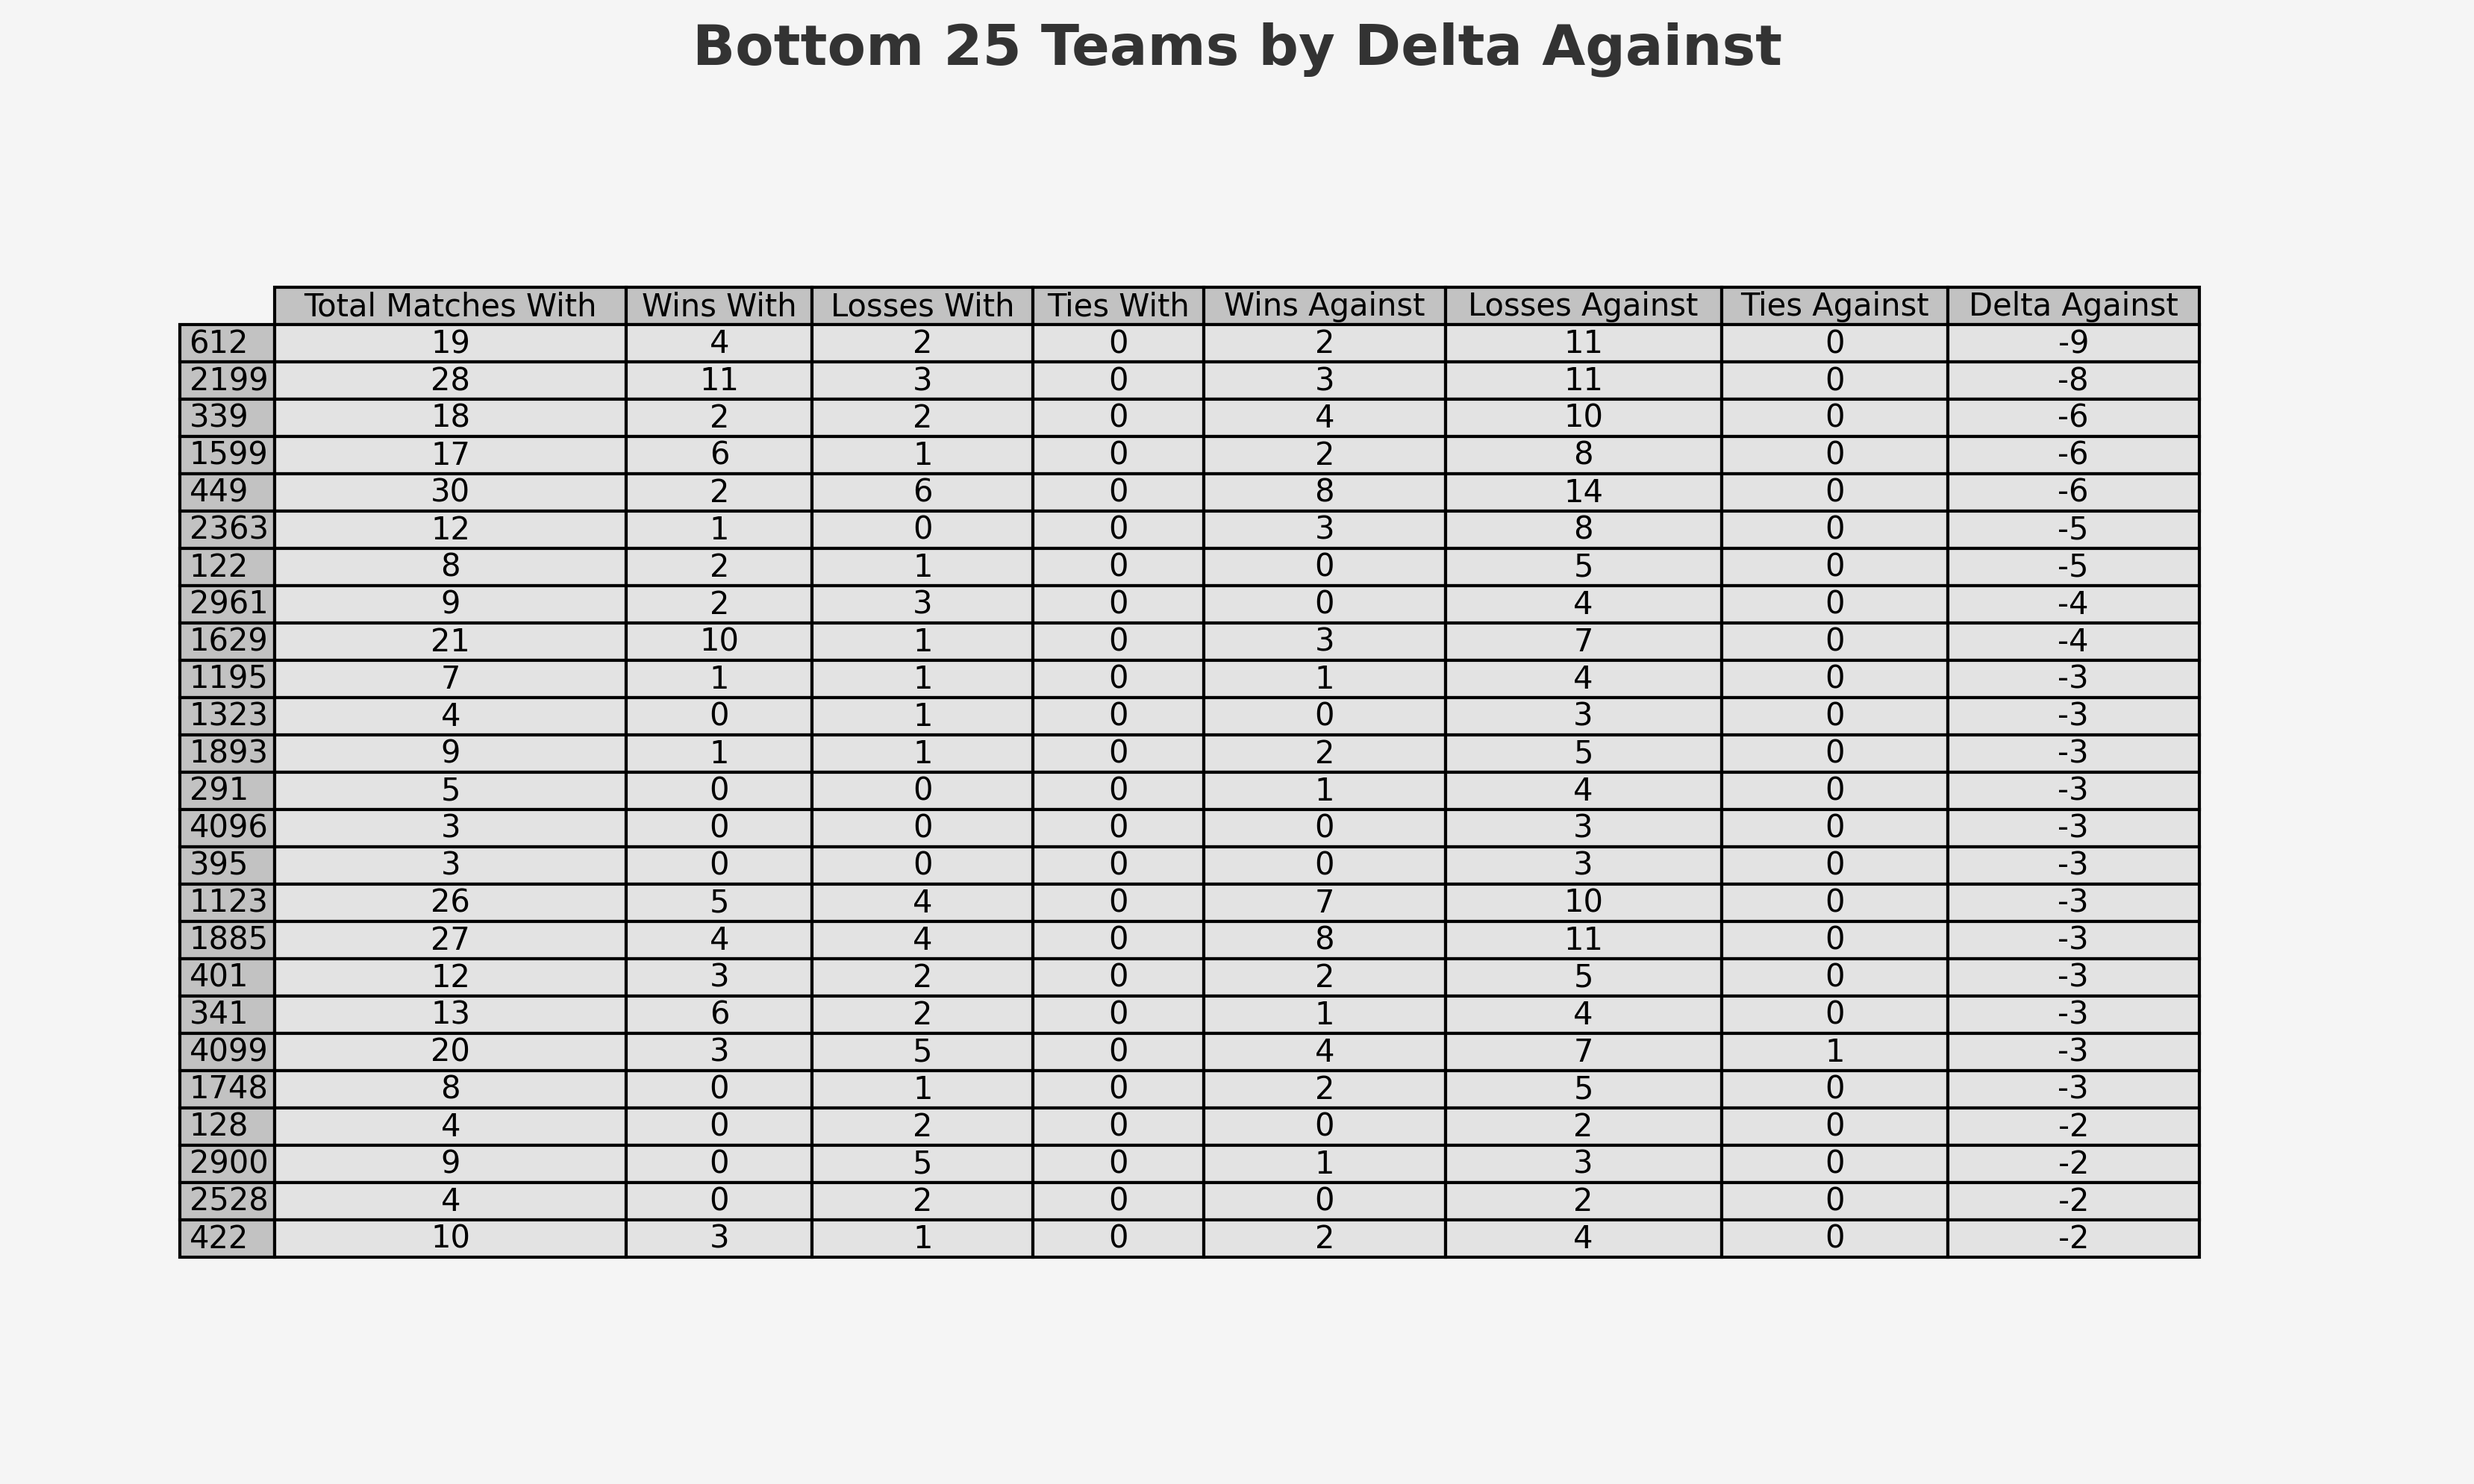
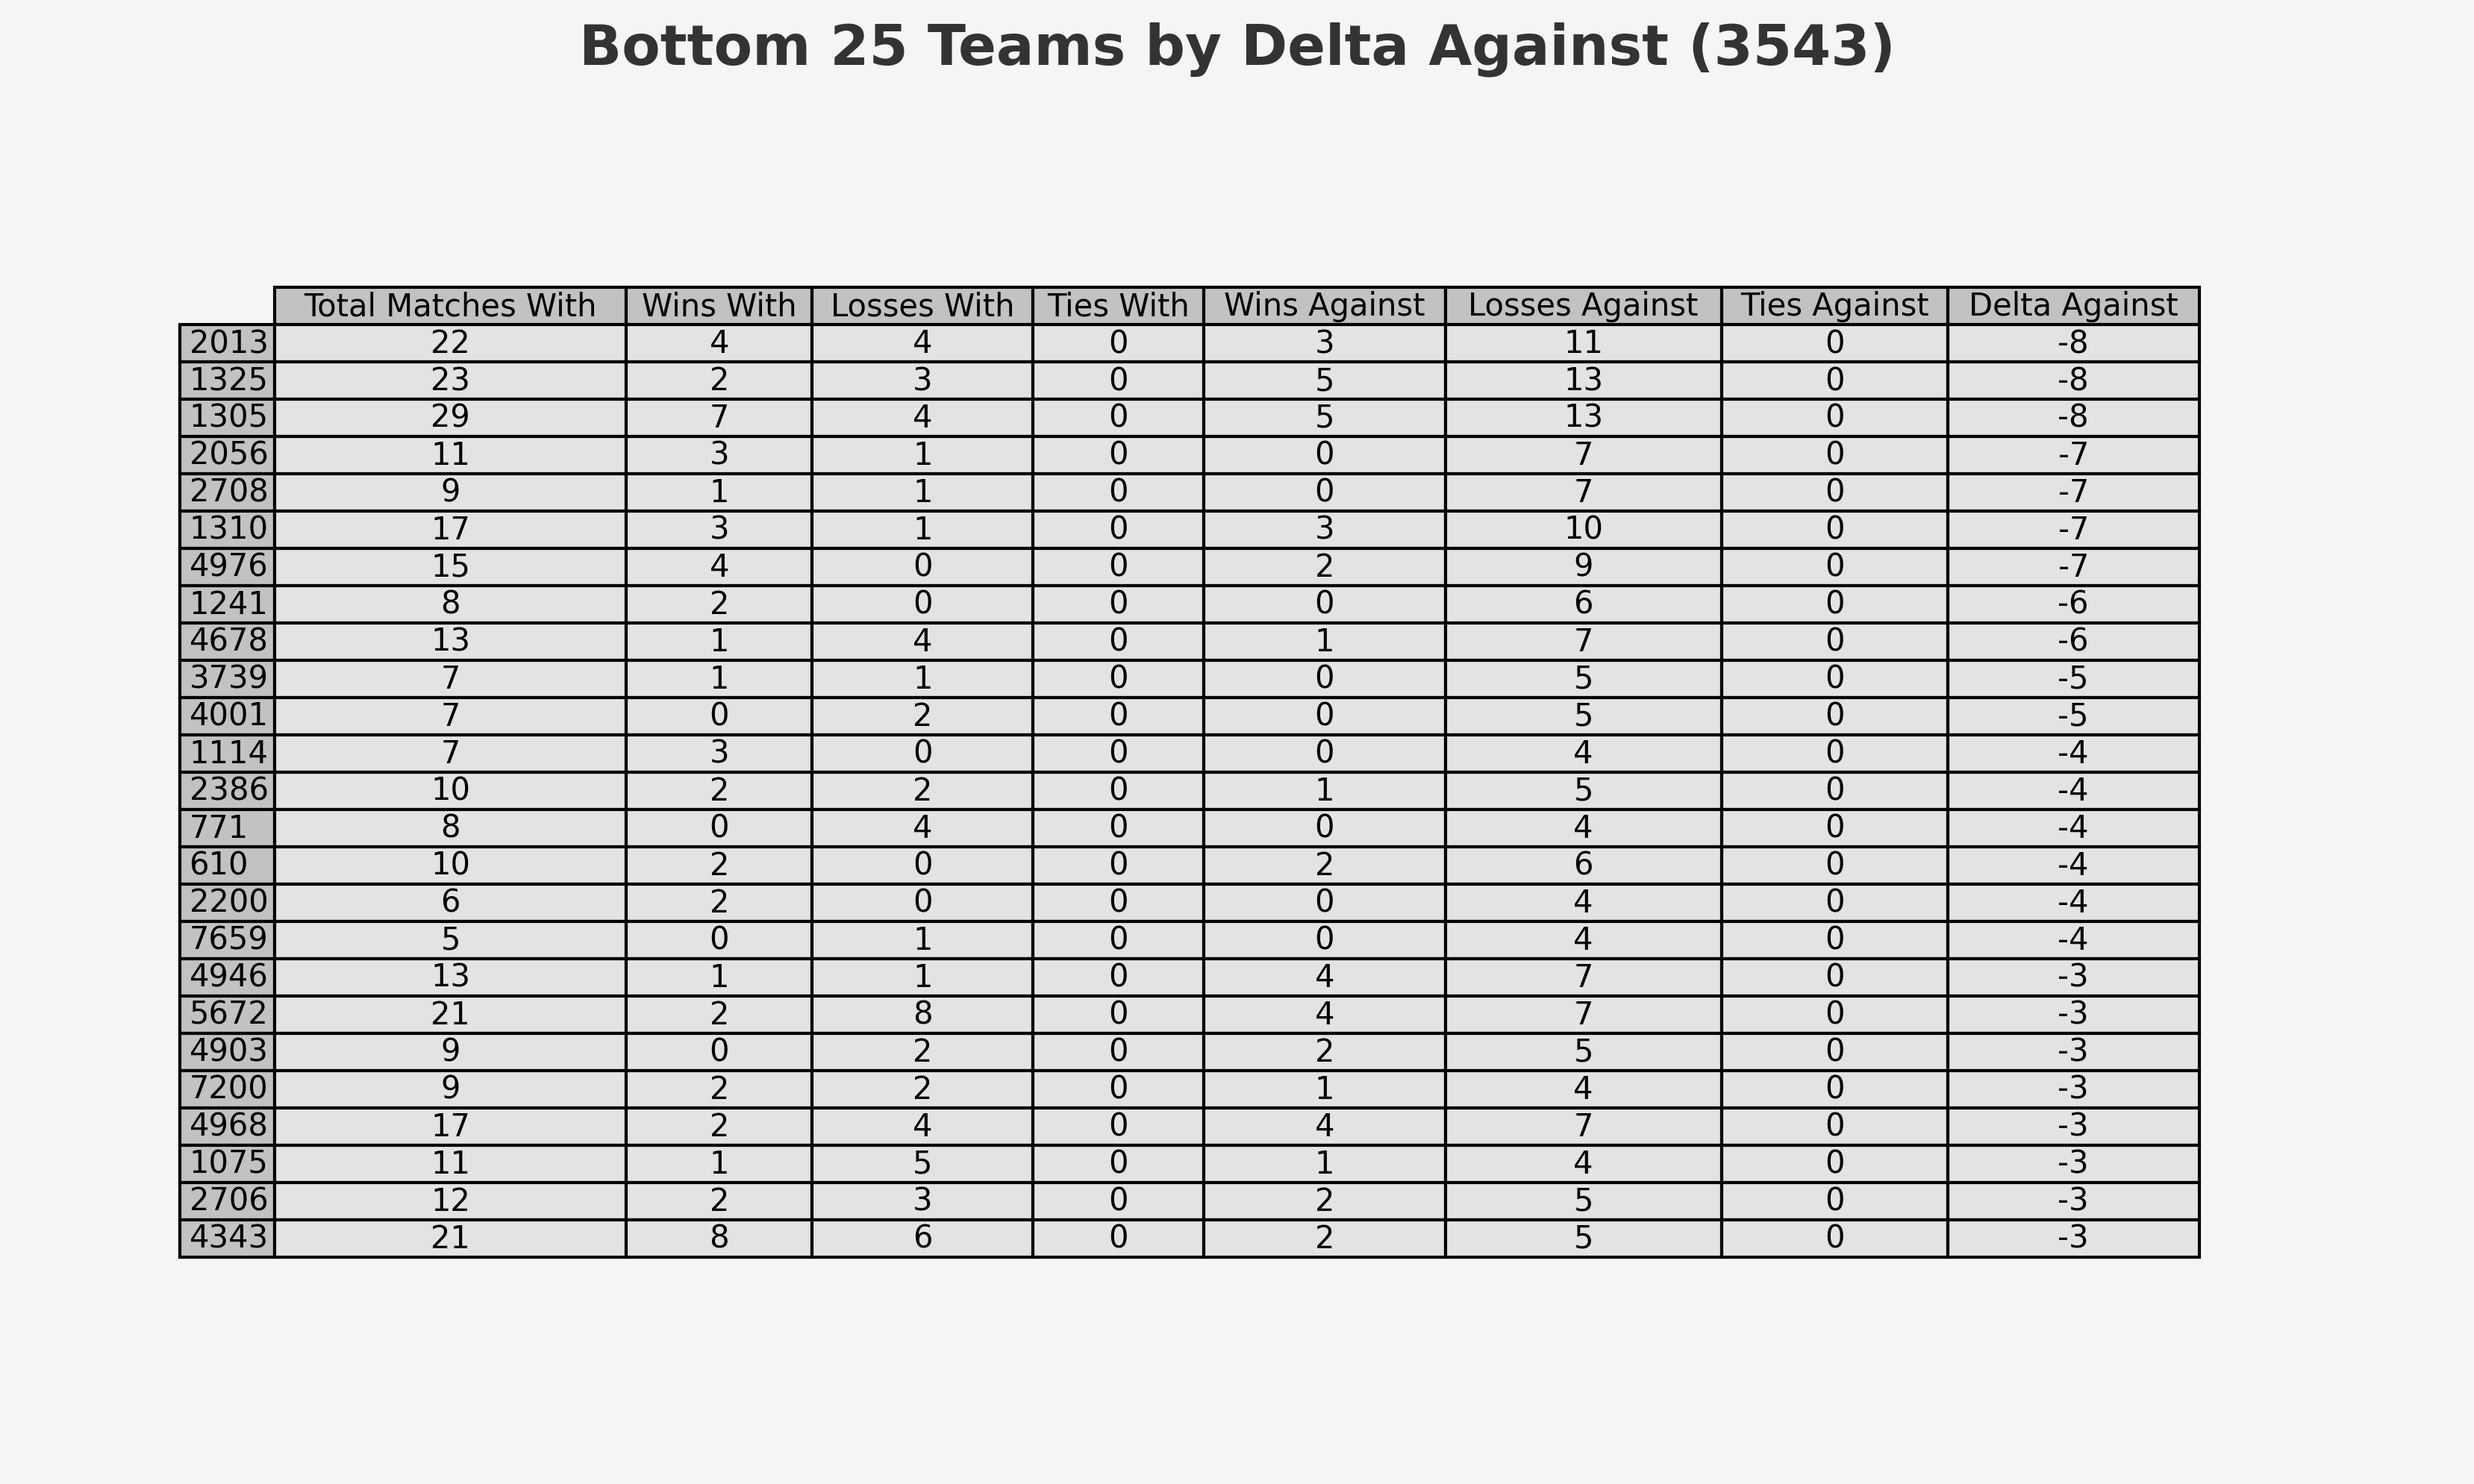
Include team num on images

diff --git a/vs_record.py b/vs_record.py
@@ -6,7 +6,7 @@ import matplotlib.pyplot as plt
 from dotenv import load_dotenv
 from tqdm import tqdm
 
-TEAM = 1727
+TEAM = 3543
 load_dotenv()
 tba = tbapy.TBA(os.getenv("TBAKEY"))
 
@@ -85,8 +85,8 @@ df['Delta Against'] = df['Wins Against'] - df['Losses Against']
 # Save to CSV
 df.to_csv('team_records.csv', index_label='Team')
 
-plot_dataframe(df.sort_values(by='Total Matches With', ascending=False).head(25), "Top 25 Teams by Total Matches With", "vs_record_summary.png")
-plot_dataframe(df.sort_values(by='Delta Against', ascending=False).head(25), "Top 25 Teams by Delta Against", "top_25_delta_against.png")
-plot_dataframe(df.sort_values(by='Delta Against').head(25), "Bottom 25 Teams by Delta Against", "bottom_25_delta_against.png")
+plot_dataframe(df.sort_values(by='Total Matches With', ascending=False).head(25), f"Top 25 Teams by Total Matches With ({TEAM})", "vs_record_summary.png")
+plot_dataframe(df.sort_values(by='Delta Against', ascending=False).head(25), f"Top 25 Teams by Delta Against ({TEAM})", "top_25_delta_against.png")
+plot_dataframe(df.sort_values(by='Delta Against').head(25), f"Bottom 25 Teams by Delta Against ({TEAM})", "bottom_25_delta_against.png")
 
 print("Done")
